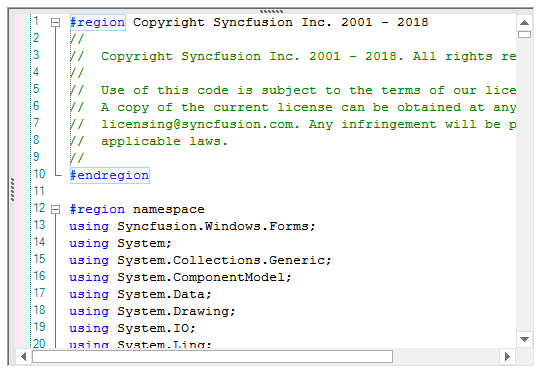
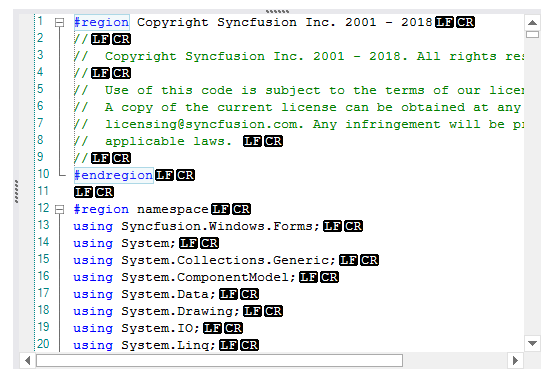
WF-61915_EOL_Mode Content Modifiyed

diff --git a/WindowsForms/Syntax-Editor/Editing.md b/WindowsForms/Syntax-Editor/Editing.md
@@ -2219,13 +2219,12 @@ Me.editControl1.UncommentText(New Point(1, 1), New Point(7, 7))))
 
 ## New line styles
 
-The EditControl allows you to specify a new line style, or get the currently used new line style in the text. The [SetNewLineStyle](https://help.syncfusion.com/cr/windowsforms/Syncfusion.Windows.Forms.Edit.EditControl.html#Syncfusion_Windows_Forms_Edit_EditControl_SetNewLineStyle_Syncfusion_IO_NewLineStyle_) method sets the current new line style in the EditControl. The SetNewLineStyle function accepts values from the NewLineStyle enumerator which has values like Windows, Mac, Unix, and Control. Similarly, the [GetNewLineStyle](https://help.syncfusion.com/cr/windowsforms/Syncfusion.Windows.Forms.Edit.EditControl.html#Syncfusion_Windows_Forms_Edit_EditControl_GetNewLineStyle) function returns a NewLineStyle enumerator value which indicates the currently used new line style in the [Editcontrol](https://help.syncfusion.com/cr/windowsforms/Syncfusion.Windows.Forms.Edit.EditControl.html).
+The [Editcontrol](https://help.syncfusion.com/cr/windowsforms/Syncfusion.Windows.Forms.Edit.EditControl.html) allows you to specify a new line style, or get the currently used new line style in the text. The [SetNewLineStyle](https://help.syncfusion.com/cr/windowsforms/Syncfusion.Windows.Forms.Edit.EditControl.html#Syncfusion_Windows_Forms_Edit_EditControl_SetNewLineStyle_Syncfusion_IO_NewLineStyle_) method sets the current new line style in the [Editcontrol](https://help.syncfusion.com/cr/windowsforms/Syncfusion.Windows.Forms.Edit.EditControl.html). The SetNewLineStyle function accepts values from the NewLineStyle enumerator which has values like Windows, Mac, Unix, and Control. Similarly, the [GetNewLineStyle](https://help.syncfusion.com/cr/windowsforms/Syncfusion.Windows.Forms.Edit.EditControl.html#Syncfusion_Windows_Forms_Edit_EditControl_GetNewLineStyle) function returns a NewLineStyle enumerator value which indicates the currently used new line style in the [Editcontrol](https://help.syncfusion.com/cr/windowsforms/Syncfusion.Windows.Forms.Edit.EditControl.html).
 
 
-### Set a defult new line style
+### Set a default new line style
 
-The default new line style value is ‘Control’ and can be change the default new line style value of lines used to [DefaultNewLineStyle](https://help.syncfusion.com/cr/windowsforms/Syncfusion.Windows.Forms.Edit.EditControl.html#Syncfusion_Windows_Forms_Edit_EditControl_DefaultNewLineStyle) property.
-
+The [DefaultNewLineStyle](https://help.syncfusion.com/cr/windowsforms/Syncfusion.Windows.Forms.Edit.EditControl.html#Syncfusion_Windows_Forms_Edit_EditControl_DefaultNewLineStyle) property is used to apply the new line style when loading an existing document or creating a new document in the [Editcontrol](https://help.syncfusion.com/cr/windowsforms/Syncfusion.Windows.Forms.Edit.EditControl.html). The default value of the [DefaultNewLineStyle](https://help.syncfusion.com/cr/windowsforms/Syncfusion.Windows.Forms.Edit.EditControl.html#Syncfusion_Windows_Forms_Edit_EditControl_DefaultNewLineStyle) property is Control.
 
 {% tabs %}
 
@@ -2249,7 +2248,7 @@ The default new line style value is ‘Control’ and can be change the default 
 
 ### Change new line style at runtime
 
-The [Editcontrol](https://help.syncfusion.com/cr/windowsforms/Syncfusion.Windows.Forms.Edit.EditControl.html) allows to change the line style in run time. can be change the default new line style or the current new line style at runtime, use the [SetNewLineStyle][SetNewLineStyle](https://help.syncfusion.com/cr/windowsforms/Syncfusion.Windows.Forms.Edit.EditControl.html#Syncfusion_Windows_Forms_Edit_EditControl_SetNewLineStyle_Syncfusion_IO_NewLineStyle_) method and Following that, save a document with the current new line style.
+The [Editcontrol](https://help.syncfusion.com/cr/windowsforms/Syncfusion.Windows.Forms.Edit.EditControl.html) allows to change the new line style at run time by using the [SetNewLineStyle](https://help.syncfusion.com/cr/windowsforms/Syncfusion.Windows.Forms.Edit.EditControl.html#Syncfusion_Windows_Forms_Edit_EditControl_SetNewLineStyle_Syncfusion_IO_NewLineStyle_) method.
 
 {% tabs %}
 
@@ -2287,7 +2286,7 @@ The [Editcontrol](https://help.syncfusion.com/cr/windowsforms/Syncfusion.Windows
 
 ### Show or hide the end of line
 
-The [Editcontrol](https://help.syncfusion.com/cr/windowsforms/Syncfusion.Windows.Forms.Edit.EditControl.html) provides support to make the show or hiding end of line style used to [ShowEndOfLine] property.
+The [Editcontrol](https://help.syncfusion.com/cr/windowsforms/Syncfusion.Windows.Forms.Edit.EditControl.html) allows to show or hide the new line style characters by using the [ShowEndOfLine] property. The default value of [ShowEndOfLine] property is false
 
 {% tabs %}
 
@@ -2297,7 +2296,6 @@ The [Editcontrol](https://help.syncfusion.com/cr/windowsforms/Syncfusion.Windows
  this.editControl1.Location = new Point(0, 100);
  this.editControl1.BorderStyle = BorderStyle.Fixed3D;
  this.editControl1.ShowEndOfLine = False;
- this.editControl1.DefaultNewLineStyle = Syncfusion.IO.NewLineStyle.Windows;
  this.editControl1.Style = Syncfusion.Windows.Forms.Edit.EditControlStyle.Office2016White;
  this.editControl1.LoadFile();
 
@@ -2307,9 +2305,9 @@ The [Editcontrol](https://help.syncfusion.com/cr/windowsforms/Syncfusion.Windows
 
 ![Show or hide the end of line](Newlinestyle-Features_images/NewLineStyle-Features_img3.png)
 
-### customization
+### Customization
 
-The appearance of the new line style can be customized by using the [EndOfLineBackColor](https://help.syncfusion.com/cr/windowsforms/Syncfusion.Windows.Forms.Edit.EditControl.html#Syncfusion_Windows_Forms_Edit_EditControl_EndOfLineBackColor) and [EndOfLineForeColor](https://help.syncfusion.com/cr/windowsforms/Syncfusion.Windows.Forms.Edit.EditControl.html#Syncfusion_Windows_Forms_Edit_EditControl_EndOfLineForeColor) property.
+The background and foreground of the new line style characters can be customized by using the [EndOfLineBackColor](https://help.syncfusion.com/cr/windowsforms/Syncfusion.Windows.Forms.Edit.EditControl.html#Syncfusion_Windows_Forms_Edit_EditControl_EndOfLineBackColor) and [EndOfLineForeColor](https://help.syncfusion.com/cr/windowsforms/Syncfusion.Windows.Forms.Edit.EditControl.html#Syncfusion_Windows_Forms_Edit_EditControl_EndOfLineForeColor) property.
 
 {% tabs %}
 
